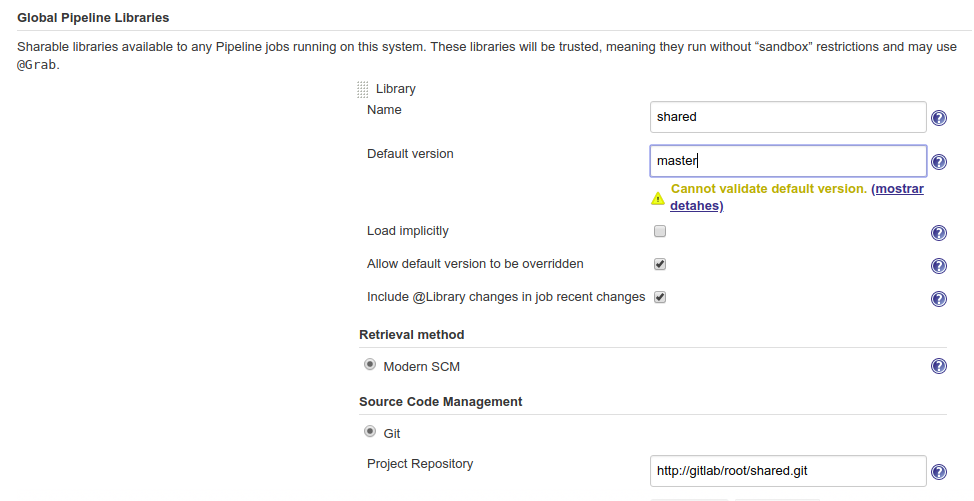
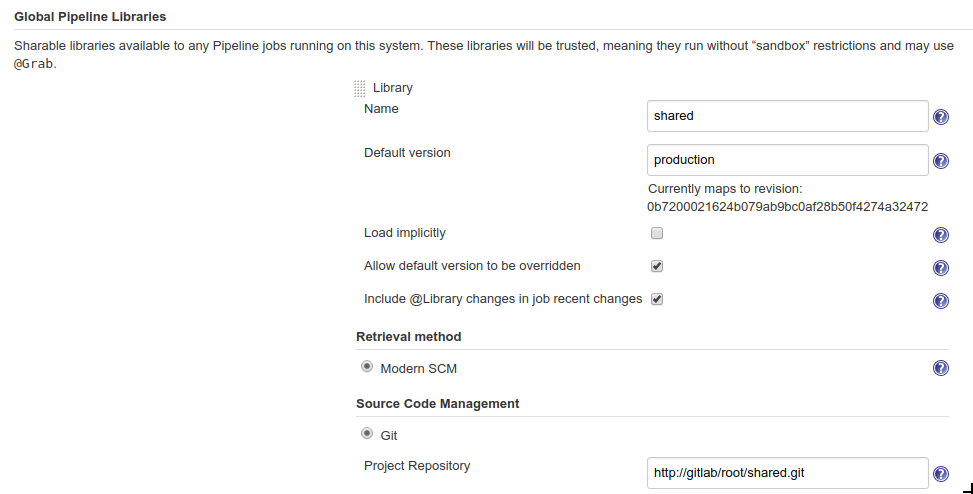
Imagens

diff --git a/README.md b/README.md
@@ -130,16 +130,21 @@ pipeline {
 
 Antes de começar a escrever as funções da pipeline é necessário criar um ambiente para o desenvolvimento, teste e validação antes de colocar em produção.
 
-Estamos falando em escrever código, vamos utilizar o `gitlab` para realizar o controle do código. E vamos criar as branch de desenvolvimento e a branch de produção. Primeiramente o código é desenvolvido na branch de desenvolvimento e após os testes realizamos um `Merge Request` para a branch de produção.
+Estamos falando em escrever código, portanto vamos utilizar o `gitlab` para realizar o controle do código. E vamos criar as branch de desenvolvimento e a branch de produção. Primeiramente o código é desenvolvido na branch de desenvolvimento e após os testes, realizamos um `Merge Request` para a branch de produção.
 
 Dessa forma matemos os ambientes controlados e a evolução da esteira de Jenkins é feita como qualquer outro código.
 
 ![branch](https://github.com/clodonil/jenkins_shared_library/blob/master/imgs/branch.png)
 
+Portanto crie no `gitlab` um repositório (criei com o nome shared) e as duas branch. Os códigos de exemplo estão no diretório [shared](https://github.com/clodonil/jenkins_shared_library/tree/master/shared/), envie para a branch de desenvolvimento.
+
+
+## Shared Library
 
 Primeira ordem de trabalhos: criar um repositório jenkins-shared-library (como muitos, eu uso o Github, mas qualquer que seja o SCM que você esteja usando para o Jenkins, tudo bem). Ele não precisa ser chamado assim, e não precisa ter nada nele ainda, mas você precisará adicionar esse repositório ao Jenkins, em Gerenciar bibliotecas globais de pipeline do Jenkins »Configure System» 
 
-## Shared Library
+![jenkins](https://github.com/clodonil/jenkins_shared_library/blob/master/imgs/jenkins-shared.png)
+
 
 Primeira ordem de trabalhos: criar um repositório jenkins-shared-library (como muitos, eu uso o Github, mas qualquer que seja o SCM que você esteja usando para o Jenkins, tudo bem). Ele não precisa ser chamado assim, e não precisa ter nada nele ainda, mas você precisará adicionar esse repositório ao Jenkins, em Gerenciar bibliotecas globais de pipeline do Jenkins »Configure System» . Você precisará de acesso administrativo a Jenkins ou terá que levar as pessoas a bordo. Como há um possível risco de segurança (qualquer um que possa se comprometer com esse repositório pode enviar o código para ser executado no seu Jenkins), um repositório privado é o melhor.
 
